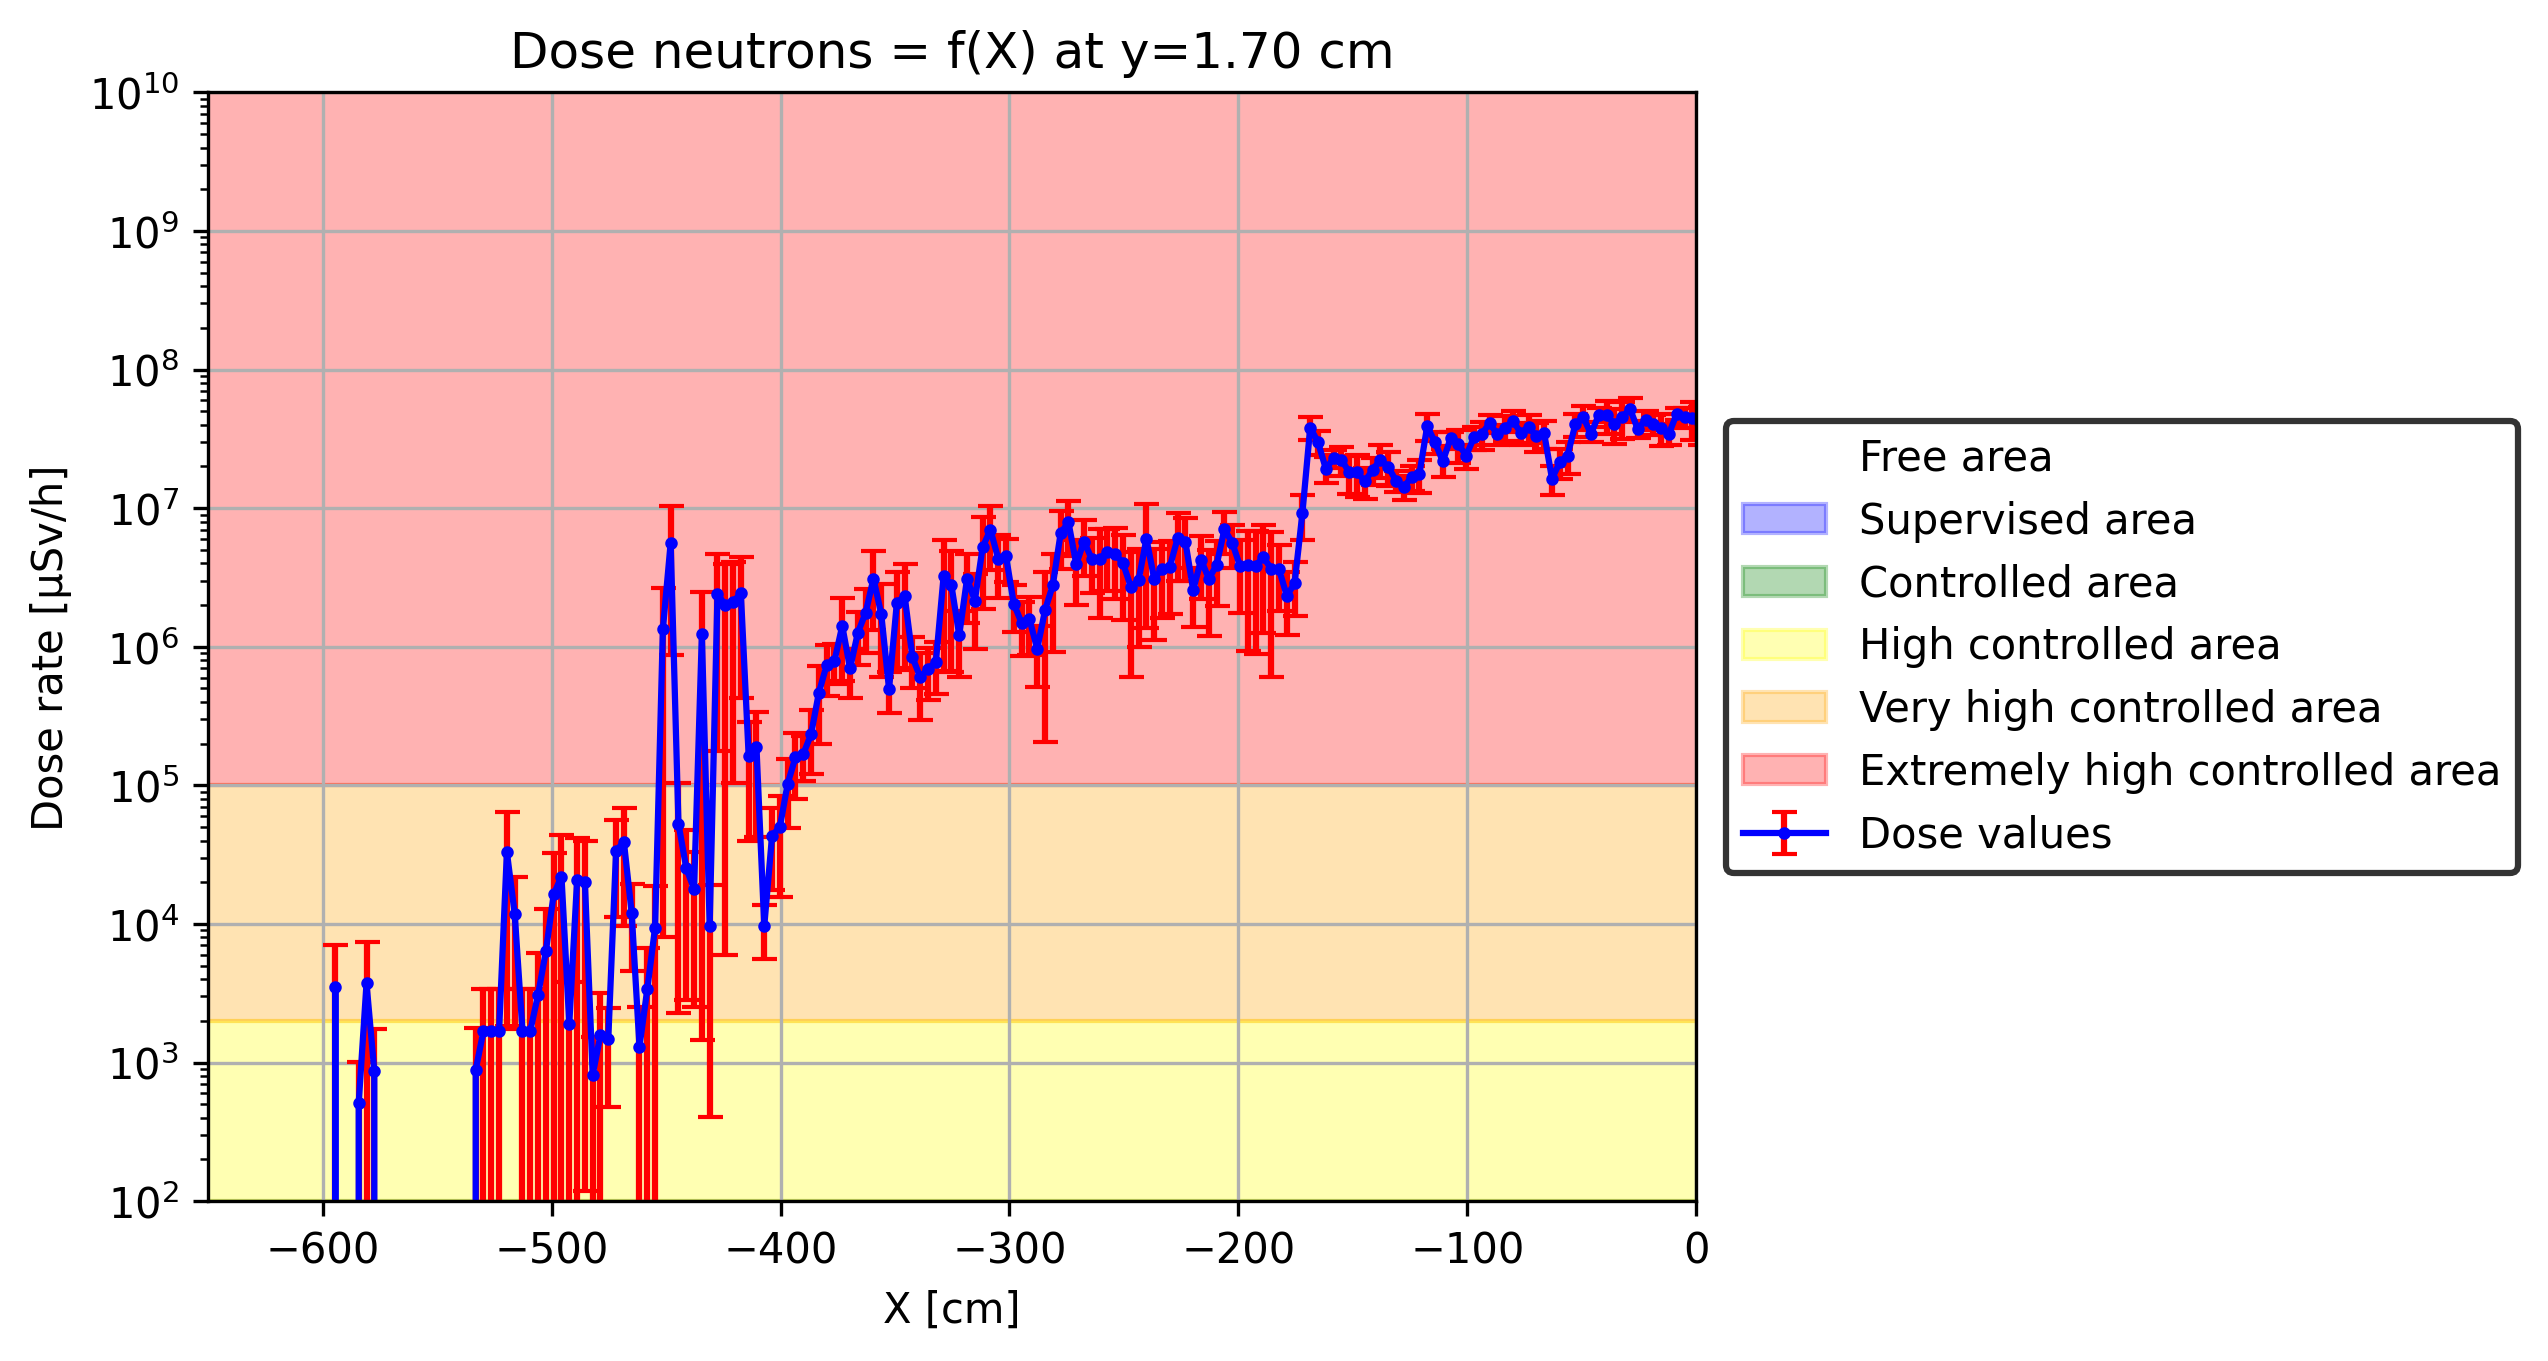
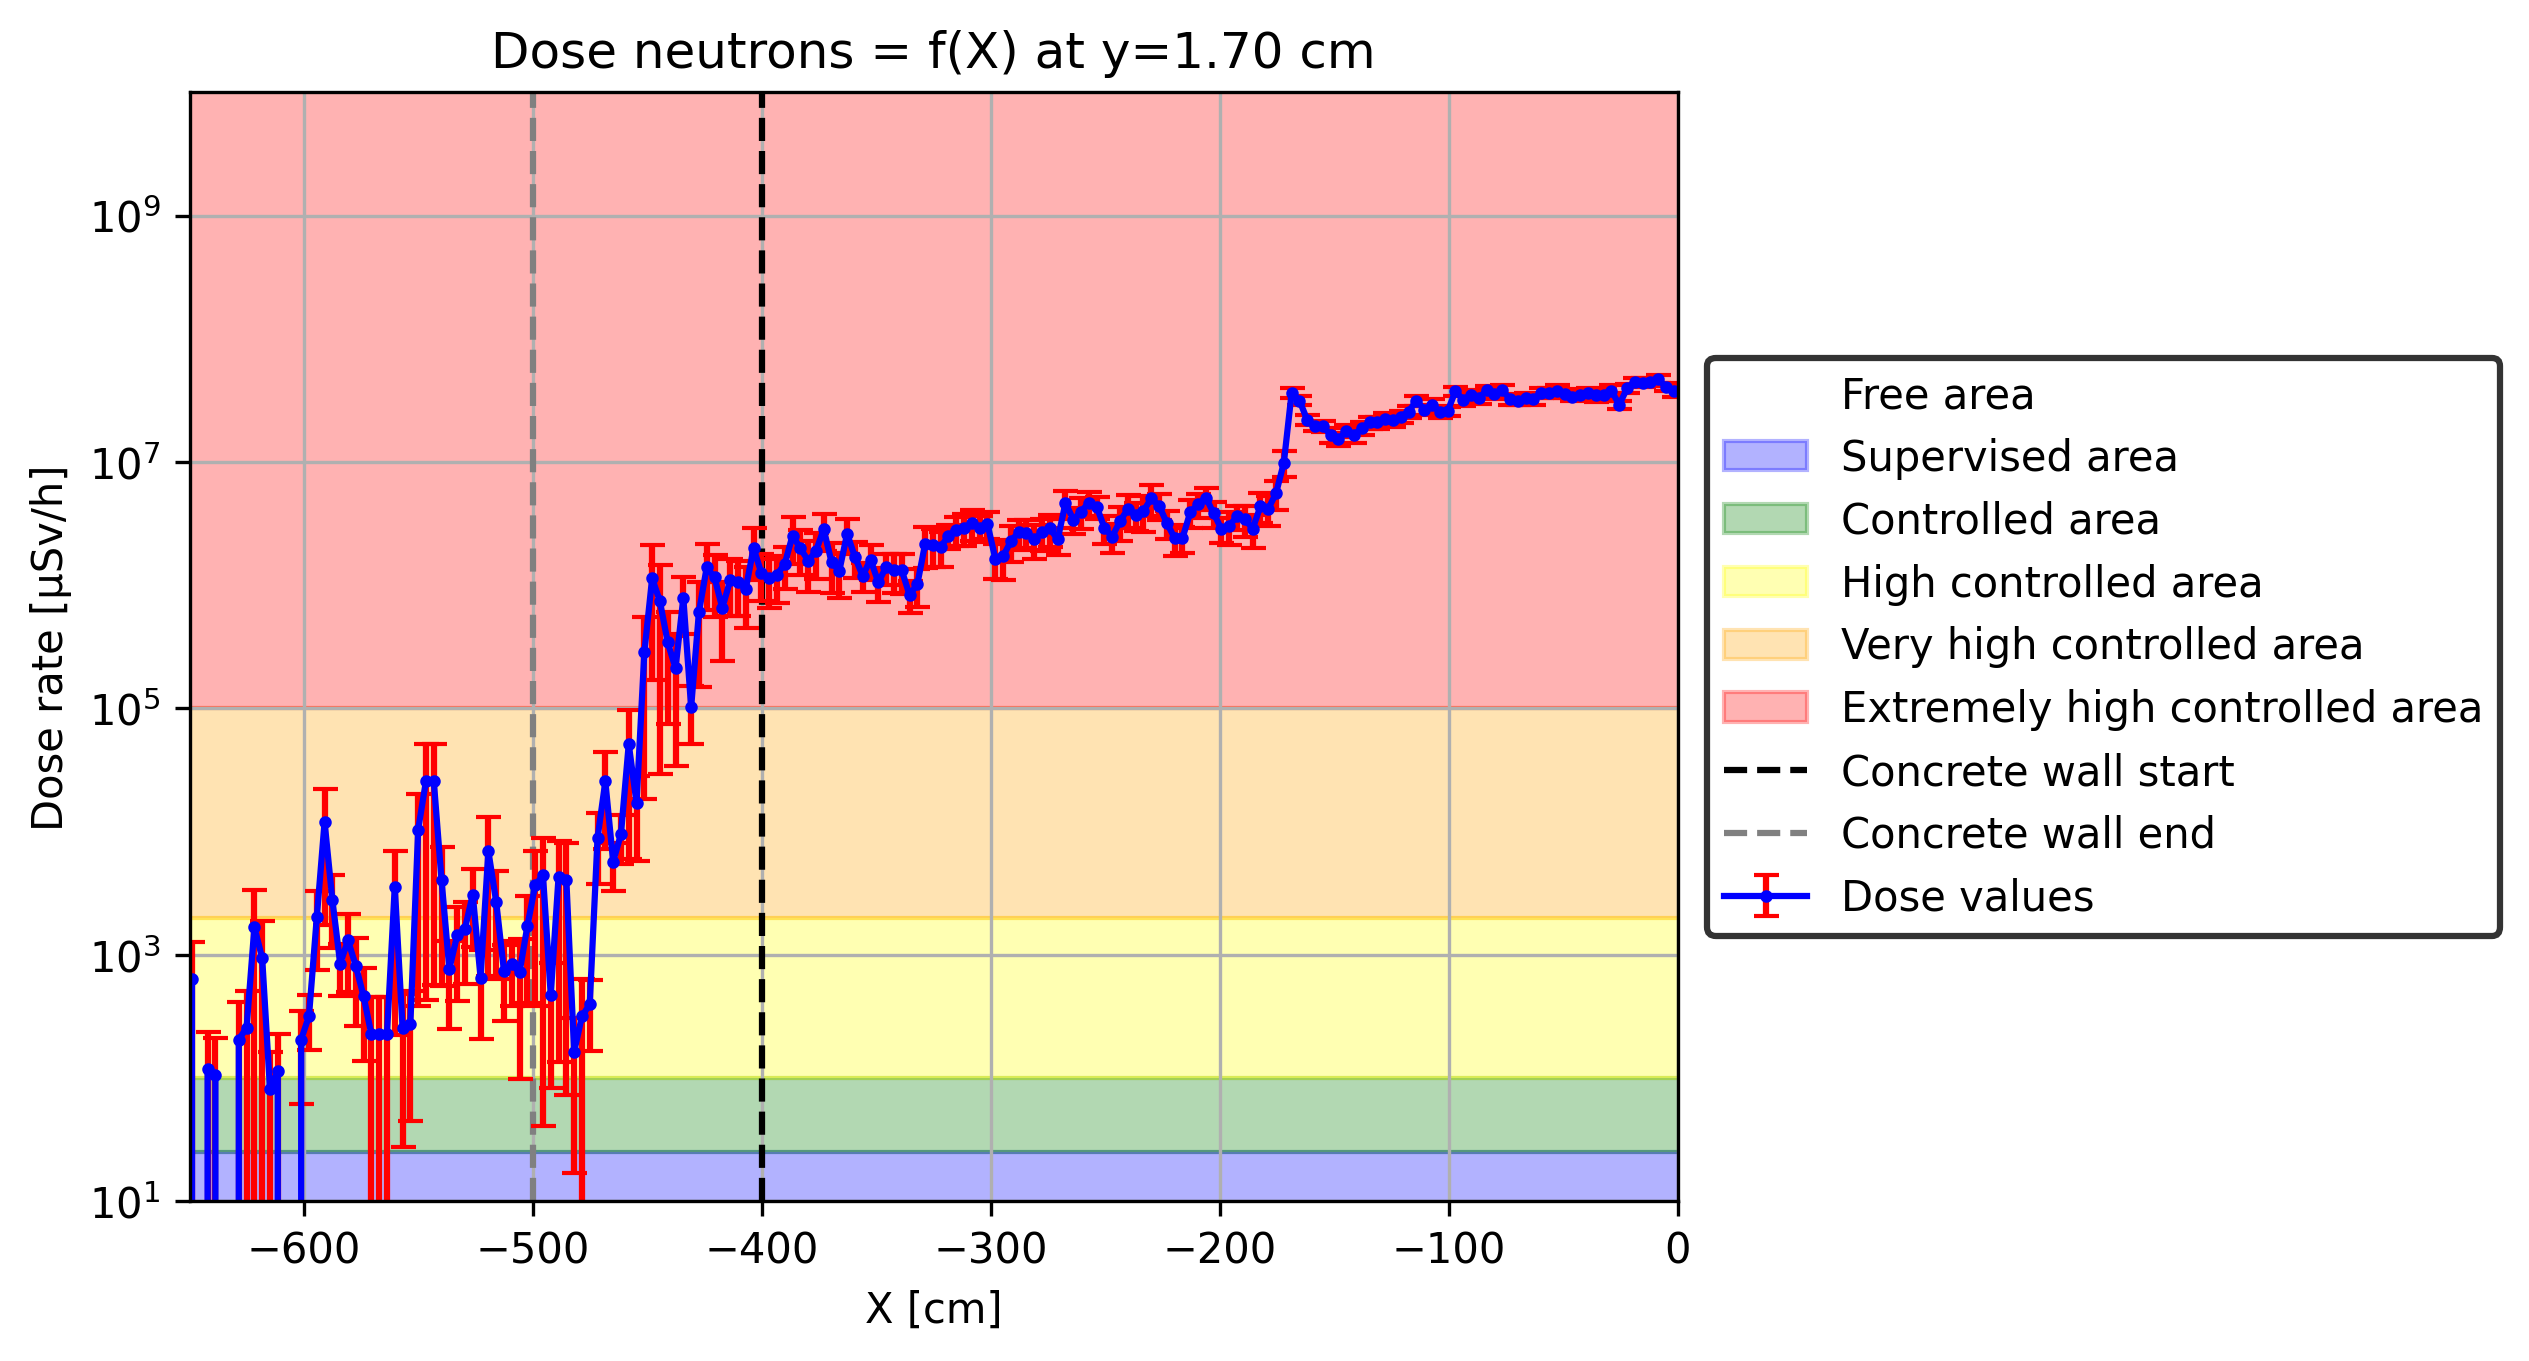
feat:geometrical_lines

Changed region(s): [[0.0312, 0.0, 0.9996, 0.9875], [0.4686, 0.2469, 0.4998, 0.2777], [0.3749, 0.2469, 0.4061, 0.2777]]

diff --git a/src/utils/post_preocessing/post_processing.py b/src/utils/post_preocessing/post_processing.py
@@ -570,7 +570,8 @@ class mesh_tally_data:
                   axis_two_index=None, 
                   x_lim:tuple=None, 
                   y_lim:tuple=None,
-                  save_fig:bool=False, 
+                  save_fig:bool=False,
+                  geometrical_limit: tuple = [(None, None)], 
                   fig_name:str="flux_plot.png"):
 
         if x_lim is None:
@@ -578,12 +579,23 @@ class mesh_tally_data:
         coords = self.get_coordinates
         plane = self.plane
 
+        if (geometrical_limit[0][0] is not None and geometrical_limit[0][1] is not None):
+            colors = ["black", "grey", "brown", "purple"]
+            for i in range(len(geometrical_limit)):
+                plt.axvline(x=geometrical_limit[i][0], color=colors[i], linestyle='--', label=geometrical_limit[i][1])
+
+
         if axis_one_index is not None:
             plt.errorbar(coords[0], self.get_flux_data[:, axis_one_index], yerr= self.get_flux_error[:, axis_one_index],
                  fmt='o-', color='blue', ecolor='red', capsize=3, markersize=2,
                  label='Flux values')
             plt.xlabel(f'{plane[1].upper()} [cm]')
-            plt.legend()
+            if geometrical_limit[0][0] is not None and geometrical_limit[0][1] is not None:
+                legend = plt.legend(loc='center left', bbox_to_anchor=(1.02, 0.5), borderaxespad=0., frameon=True)
+                legend.get_frame().set_edgecolor('black')
+                legend.get_frame().set_linewidth(1.5)
+            else:
+                plt.legend()
             plt.ylabel('Flux [n/cm^2/P-source]')
             plt.title(f'Flux=f({plane[0].lower()}) at {plane[0].lower()}={coords[1][axis_one_index]:.2f} cm')
             plt.yscale('log')
@@ -601,7 +613,12 @@ class mesh_tally_data:
                  fmt='o-', color='blue', ecolor='red', capsize=3, markersize=2,
                  label='Flux values')
             plt.xlabel(f'{plane[0].upper()} [cm]')
-            plt.legend()
+            if geometrical_limit[0][0] is not None and geometrical_limit[0][1] is not None:
+                legend = plt.legend(loc='center left', bbox_to_anchor=(1.02, 0.5), borderaxespad=0., frameon=True)
+                legend.get_frame().set_edgecolor('black')
+                legend.get_frame().set_linewidth(1.5)
+            else:
+                plt.legend()
             plt.ylabel('Flux [n/cm^2/P-source]')
             plt.title(f'Flux=f({plane[1].upper()}) at {plane[1].lower()}={coords[1][axis_two_index]:.2f} cm')
             plt.yscale('log')
@@ -625,6 +642,7 @@ class mesh_tally_data:
                   save_fig:bool=False, 
                   fig_name:str="dose_plot.png",
                   radiological_area: bool = False,
+                  geometrical_limit: tuple = [(None, None)],
                   log_scale: bool = True):
         if x_lim is None:
             x_lim = (self.get_coordinates[0][0], self.get_coordinates[0][-1])
@@ -668,12 +686,17 @@ class mesh_tally_data:
         if radiological_area:
             plot_radiological_areas()
 
+        if (geometrical_limit[0][0] is not None and geometrical_limit[0][1] is not None):
+            colors = ["black", "grey", "brown", "purple"]
+            for i in range(len(geometrical_limit)):
+                plt.axvline(x=geometrical_limit[i][0], color=colors[i], linestyle='--', label=geometrical_limit[i][1])
+
         if axis_one_index is not None:
             plt.errorbar(
             coords[0], dose_data[:, axis_one_index], yerr=dose_error[:, axis_one_index],
             fmt='o-', color='blue', ecolor='red', capsize=3, markersize=2, label='Dose values'
             )
-            if radiological_area:
+            if radiological_area or (geometrical_limit[0] is not None and geometrical_limit[1] is not None):
                 legend = plt.legend(loc='center left', bbox_to_anchor=(1.02, 0.5), borderaxespad=0., frameon=True)
                 legend.get_frame().set_edgecolor('black')
                 legend.get_frame().set_linewidth(1.5)
@@ -683,7 +706,7 @@ class mesh_tally_data:
             f'{plane[1].upper()} [cm]',
             "Dose rate [µSv/h]",
             f'Dose {particule_type} = f({plane[1].lower()}) at {plane[0].lower()}={coords[0][axis_one_index]:.2f} cm'
-            )
+        )
 
         if axis_two_index is not None:
             plt.errorbar(
@@ -699,7 +722,7 @@ class mesh_tally_data:
             finalize_plot(
             f'{plane[0].upper()} [cm]',
             "Dose rate [µSv/h]",
-            f'Dose {particule_type} = f({plane[0].upper()}) at {plane[1].lower()}={coords[1][axis_two_index]:.2f} cm'
+            f'Dose {particule_type} = f({plane[0].upper()}) at {plane[1].lower()}={coords[1][axis_two_index]:.2f} cm',
             )
 
 

diff --git a/src/studies/reactor_study/class_model/stop_24h/02_with_ww/02_ww_using/03_100cm/post.py b/src/studies/reactor_study/class_model/stop_24h/02_with_ww/02_ww_using/03_100cm/post.py
@@ -22,7 +22,7 @@ os.environ["OPENMC_CROSS_SECTIONS"] = PATH_TO_CROSS_SECTIONS
 
 material_dict["FUEL_UO2_MATERIAL"].remove_element("U")
 
-statepoint = openmc.StatePoint(f"statepoint.010.h5")
+statepoint = openmc.StatePoint(f"statepoint.050.h5")
 
 bin_mesh_volume = get_mesh_volumes(lower_left=(-850.0, -850.0), upper_right=(850.0, 850.0), thickness=20.0, bin_number=500)
 photons_per_s = 2.5e15
@@ -38,15 +38,15 @@ my_reactor = Reactor_model(materials=material_dict,
 MODEL = my_reactor.model
 MODEL.export_to_xml()
 
-dose_over_geometry(model=MODEL ,statepoint_file=statepoint, name_mesh_tally="flux_mesh_photons_xy", plane="xy", 
-                saving_figure=True, bin_number=500, lower_left=(-850.0, -850.0), upper_right=(850.0, 850.0), 
-                zoom_x=(-850, 850), zoom_y=(-850, 850), plot_error=True, particule_type="photon", 
-                particles_per_second=photons_per_s, mesh_bin_volume=bin_mesh_volume, radiological_area=True)   
+# dose_over_geometry(model=MODEL ,statepoint_file=statepoint, name_mesh_tally="flux_mesh_photons_xy", plane="xy", 
+#                 saving_figure=True, bin_number=500, lower_left=(-850.0, -850.0), upper_right=(850.0, 850.0), 
+#                 zoom_x=(-850, 850), zoom_y=(-850, 850), plot_error=True, particule_type="photon", 
+#                 particles_per_second=photons_per_s, mesh_bin_volume=bin_mesh_volume, radiological_area=True)   
 
-dose_over_geometry(model=MODEL ,statepoint_file=statepoint, name_mesh_tally="flux_mesh_photons_xz", plane="xz", 
-                saving_figure=True, bin_number=500, lower_left=(-850.0, -850.0), upper_right=(850.0, 850.0), 
-                zoom_x=(-800, 800), zoom_y=(-800, 800), plot_error=True, particule_type="photon", 
-                particles_per_second=photons_per_s, mesh_bin_volume=bin_mesh_volume, pixels_model_geometry=1_000_000)  
+# dose_over_geometry(model=MODEL ,statepoint_file=statepoint, name_mesh_tally="flux_mesh_photons_xz", plane="xz", 
+#                 saving_figure=True, bin_number=500, lower_left=(-850.0, -850.0), upper_right=(850.0, 850.0), 
+#                 zoom_x=(-800, 800), zoom_y=(-800, 800), plot_error=True, particule_type="photon", 
+#                 particles_per_second=photons_per_s, mesh_bin_volume=bin_mesh_volume, pixels_model_geometry=1_000_000)  
 
 volume_tally_sphere = Volume_cell(cell=my_reactor.calc_sphere_cell).get_volume()
 
@@ -73,8 +73,9 @@ mesh_tally_photons = mesh_tally_data(statepoint, "flux_mesh_photons_xy", "xy", 5
 mesh_tally_photons.plot_dose(axis_two_index=250, 
                              particles_per_second=photons_per_s, 
                              x_lim=(-650, 0),
-                             y_lim=(1e2, 1e10),
+                             y_lim=(1e1, 1e10),
                              mesh_bin_volume=bin_mesh_volume,
                              save_fig=True,
                              radiological_area=True,
+                             geometrical_limit=[(-400, 'Concrete wall start'), (-500, 'Concrete wall end')],
                              fig_name="dose_plot_photons.png")
